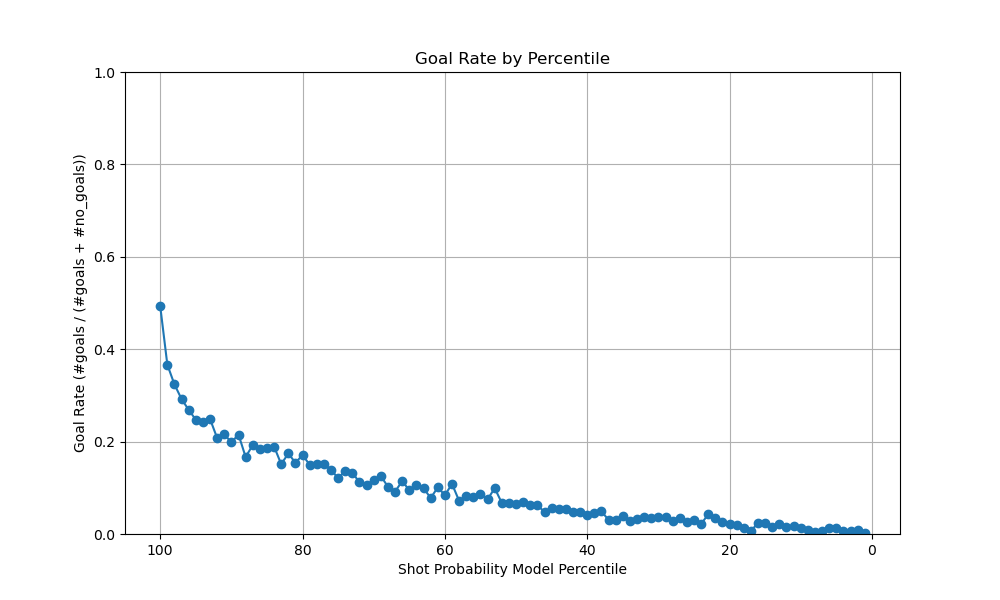
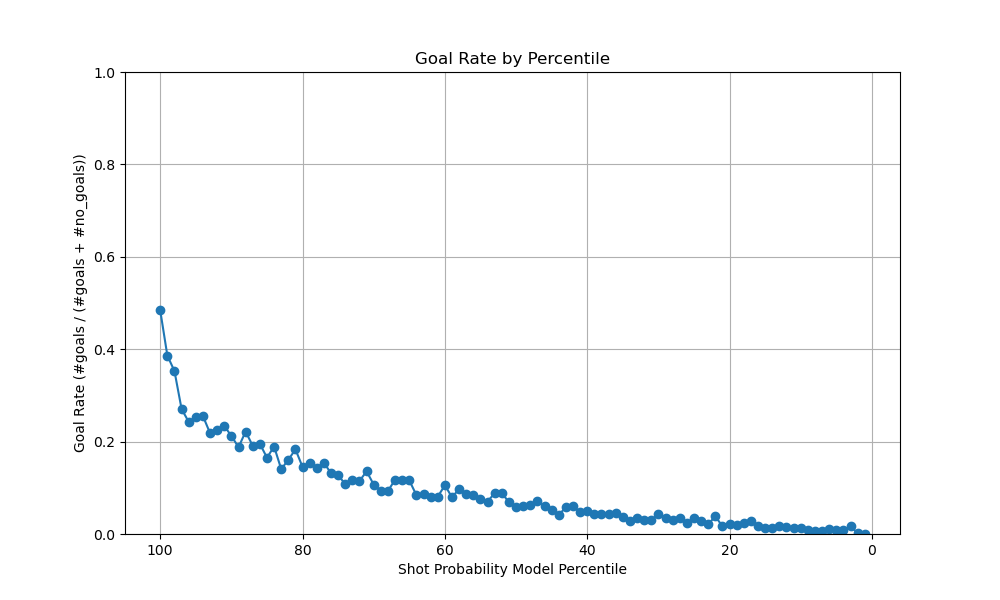
changed labelencoder to onehot

Changed region(s): [[0.155, 0.57, 0.806, 0.9], [0.837, 0.87, 0.868, 0.9], [0.155, 0.51, 0.186, 0.54]]

diff --git a/ift6758/advanced_models/xgboost/xgboost_complex-wandb.py b/ift6758/advanced_models/xgboost/xgboost_complex-wandb.py
@@ -16,6 +16,7 @@ from sklearn import preprocessing
 from sklearn.model_selection import train_test_split
 from sklearn.metrics import accuracy_score, roc_curve, auc
 from sklearn.calibration import CalibrationDisplay
+from sklearn.preprocessing import StandardScaler
 
 # taking this out cuz it will also run the xgboost in the other file
 #from xgboost_simple_wandb import roc_curve_and_auc, goal_rate_by_percentile, cumulative_proportion_of_goals, reliability_diagram
@@ -39,6 +40,7 @@ def roc_curve_and_auc(y_val, y_prob, log_to_run=None):
         if wandb.run is not None:
             run.log({'roc_auc': plt})
     plt.show()
+    plt.close(fig)
        
 ## 2. Goal Rate by Percentile (Binned by 5%)
 def goal_rate_by_percentile(y_val, y_prob, log_to_run=None):
@@ -148,6 +150,15 @@ features = [
     'speed'
 ]
 
+df['distance_from_last_event'] = df['distance_from_last_event'].fillna(df['distance_from_last_event'].mean())
+df['shot_type'] = df['shot_type'].fillna(df['shot_type'].mode()[0])
+df['x_coord'] = df['x_coord'].fillna(df['x_coord'].mean())
+df['y_coord'] = df['y_coord'].fillna(df['y_coord'].mean())
+df['last_event_type'] = df['last_event_type'].fillna(df['last_event_type'].mode()[0])
+df['time_from_last_event'] = df['time_from_last_event'].fillna(df['time_from_last_event'].mean())
+df['angle_from_net'] = df['angle_from_net'].fillna(df['angle_from_net'].mean())
+df['distance_from_net'] = df['distance_from_net'].fillna(df['distance_from_net'].mean())
+
 X = df[features]
 # Check if some features have more than 1% (arbritrary) of NaN values
 df_percent_nan = (df.isnull().sum() / df.count()).sort_values(ascending=False).loc[lambda x : x > 1.0]
@@ -165,15 +176,11 @@ if X.isnull().sum().sum() > 0:
 y = df['is_goal']
 y.fillna(0, inplace=True)
 
-# Initialize LabelEncoders
-shot_type_encoder = preprocessing.LabelEncoder()
-last_event_type_encoder = preprocessing.LabelEncoder()
+X = pd.get_dummies(X, columns=['shot_type', 'last_event_type'], drop_first=True)
 
-# Encode "shot_type"
-X['shot_type'] = shot_type_encoder.fit_transform(X['shot_type'].fillna("Unknown"))
-
-# Encode "last_event_type"
-X['last_event_type'] = last_event_type_encoder.fit_transform(X['last_event_type'].fillna("Unknown"))
+# Scale numerical features
+scaler = StandardScaler()
+X = scaler.fit_transform(X)
 
 # Transform data to Dmatrix data structure
 #data_dmatrix = xgb.DMatrix(data=X, label=y)
@@ -196,8 +203,8 @@ for f in X.columns:
 
 # Transform data to DMatrix data structure so that we can use xgb.cv
 # Reference: https://datascience.stackexchange.com/questions/12799/pandas-dataframe-to-dmatrix
-dtrain = xgb.DMatrix(data=X_train.values, label=y_train.values)
-dval = xgb.DMatrix(data=X_val.values, label=y_val.values)
+dtrain = xgb.DMatrix(data=X_train, label=y_train)
+dval = xgb.DMatrix(data=X_val, label=y_val)
 
 params = {
     'objective': 'binary:logistic',
